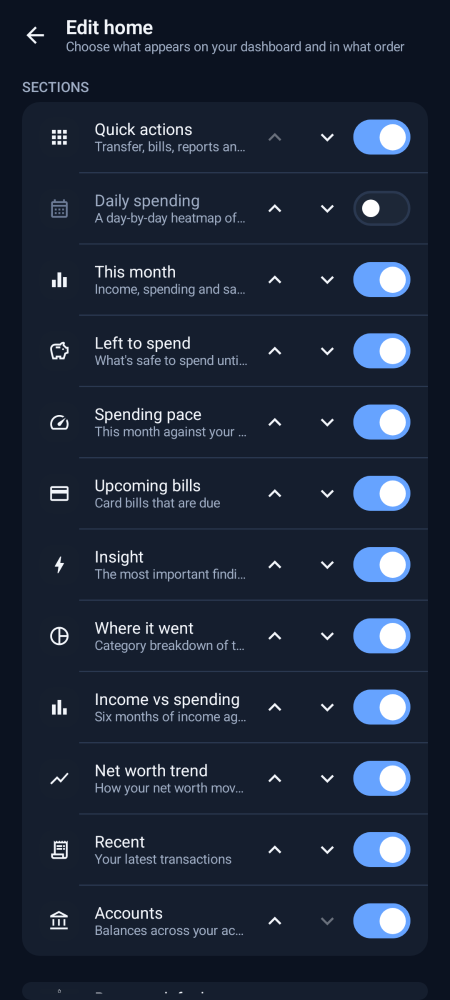
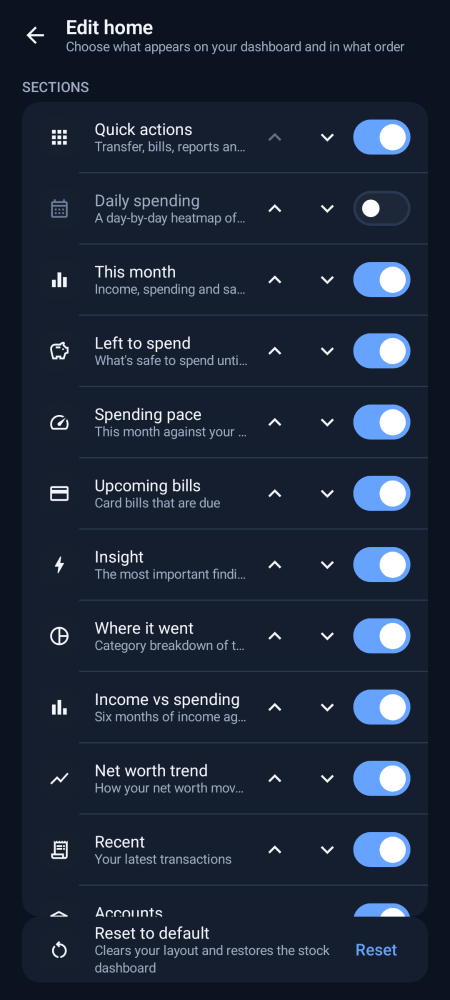
v1.7.8: Edit home fix — root cause: the editor rendered 12 section rows plus the Reset card in a non-scrolling Column inside the screen Scaffold, so on any real screen the tail of the list and the entire Reset control were clipped off-screen and unreachable (the v1.7.7 golden even shows the Reset ca

diff --git a/app/src/main/java/com/acuranza/app/ui/home/EditHomeScreen.kt b/app/src/main/java/com/acuranza/app/ui/home/EditHomeScreen.kt
@@ -1,16 +1,18 @@
 package com.acuranza.app.ui.home
 
 import androidx.compose.foundation.background
-import androidx.compose.foundation.layout.Arrangement
-import androidx.compose.foundation.layout.Box
 import androidx.compose.foundation.layout.Column
+import androidx.compose.foundation.layout.PaddingValues
 import androidx.compose.foundation.layout.Row
 import androidx.compose.foundation.layout.Spacer
+import androidx.compose.foundation.layout.fillMaxSize
 import androidx.compose.foundation.layout.fillMaxWidth
 import androidx.compose.foundation.layout.height
+import androidx.compose.foundation.layout.navigationBarsPadding
 import androidx.compose.foundation.layout.padding
 import androidx.compose.foundation.layout.size
 import androidx.compose.foundation.layout.width
+import androidx.compose.foundation.lazy.LazyColumn
 import androidx.compose.foundation.shape.RoundedCornerShape
 import androidx.compose.material.icons.Icons
 import androidx.compose.material.icons.outlined.KeyboardArrowDown
@@ -23,9 +25,12 @@ import androidx.compose.material3.Switch
 import androidx.compose.material3.SwitchDefaults
 import androidx.compose.material3.Text
 import androidx.compose.runtime.Composable
+import androidx.compose.runtime.LaunchedEffect
 import androidx.compose.runtime.getValue
+import androidx.compose.runtime.mutableStateOf
 import androidx.compose.runtime.remember
 import androidx.compose.runtime.rememberCoroutineScope
+import androidx.compose.runtime.setValue
 import androidx.compose.ui.Alignment
 import androidx.compose.ui.Modifier
 import androidx.compose.ui.draw.clip
@@ -39,34 +44,58 @@ import com.acuranza.app.designsystem.theme.AcuranzaTheme
 import com.acuranza.app.ui.common.AcuranzaScreen
 import com.acuranza.app.ui.common.LocalContainer
 import com.acuranza.app.ui.nav.popBackSafely
-import com.acuranza.app.ui.settings.SettingsDivider
 import kotlinx.coroutines.launch
 
 /**
  * Settings → Appearance → Edit home: picks which dashboard sections appear and in what order.
- * Every change is saved the moment it's made; "Reset to default" clears the saved layout.
+ *
+ * The editor's local state is the source of truth once seeded from the saved layout: every edit
+ * applies immediately and is written through to DataStore. Without this, a second tap before the
+ * write round-trips would encode from a stale remembered layout and silently undo the first
+ * change — and switches would snap back while the emission was in flight.
  */
 @Composable
 fun EditHomeScreen(nav: NavController) {
     val c = LocalContainer.current
     val scope = rememberCoroutineScope()
     val settings by c.settings.settings.collectAsStateWithLifecycle(initialValue = null)
-    val layout = remember(settings?.homeLayout) { HomeLayout.decode(settings?.homeLayout) }
+
+    // Seeded exactly once, when the persisted settings first arrive (settings == null only during
+    // the initial frame); after that the user's in-progress edits always win over flow emissions.
+    var layout by remember { mutableStateOf<List<Pair<HomeSection, Boolean>>?>(null) }
+    LaunchedEffect(settings) {
+        if (layout == null && settings != null) {
+            layout = HomeLayout.decode(settings!!.homeLayout)
+        }
+    }
+
+    fun commit(next: List<Pair<HomeSection, Boolean>>) {
+        layout = next
+        scope.launch { c.settings.setHomeLayout(HomeLayout.encode(next)) }
+    }
+
     EditHomeContent(
-        layout = layout,
-        saved = settings != null,
-        onChange = { raw -> scope.launch { c.settings.setHomeLayout(raw) } },
-        onReset = { scope.launch { c.settings.resetHomeLayout() } },
+        layout = layout ?: HomeLayout.decode(null),
+        saved = settings?.homeLayout != null,
+        onChange = { next -> commit(next) },
+        onReset = {
+            layout = HomeLayout.decode(null)
+            scope.launch { c.settings.resetHomeLayout() }
+        },
         onBack = { nav.popBackSafely() },
     )
 }
 
-/** Stateless editor body, so tests render it without the container; [layout] is section→visible. */
+/**
+ * Stateless editor body, so tests render it without the container. The section list scrolls
+ * (12 rows plus header can exceed a phone's height) and the Reset card is pinned below it,
+ * so the bottom rows and Reset stay reachable on every screen size.
+ */
 @Composable
 fun EditHomeContent(
     layout: List<Pair<HomeSection, Boolean>>,
     saved: Boolean = false,
-    onChange: (String) -> Unit = {},
+    onChange: (List<Pair<HomeSection, Boolean>>) -> Unit = {},
     onReset: () -> Unit = {},
     onBack: () -> Unit = {},
 ) {
@@ -75,40 +104,50 @@ fun EditHomeContent(
         subtitle = "Choose what appears on your dashboard and in what order",
         onBack = onBack,
     ) { padding ->
-        Column(Modifier.fillMaxWidth().padding(padding).padding(horizontal = 20.dp)) {
+        Column(Modifier.fillMaxSize().padding(padding)) {
             Text(
                 "SECTIONS",
                 style = MaterialTheme.typography.labelMedium,
                 color = AcuranzaTheme.colors.subtleText,
-                modifier = Modifier.padding(top = 8.dp, bottom = 6.dp),
+                modifier = Modifier.padding(start = 20.dp, end = 20.dp, top = 8.dp, bottom = 6.dp),
             )
-            Column(
+            LazyColumn(
                 Modifier
                     .fillMaxWidth()
+                    .weight(1f)
+                    .padding(horizontal = 20.dp)
                     .clip(RoundedCornerShape(16.dp))
                     .background(AcuranzaTheme.colors.cardSurface),
+                contentPadding = PaddingValues(bottom = 8.dp),
             ) {
-                layout.forEachIndexed { index, (section, visible) ->
-                    if (index > 0) SettingsDivider(startInset = 52.dp)
-                    EditHomeRow(
-                        section = section,
-                        visible = visible,
-                        isFirst = index == 0,
-                        isLast = index == layout.lastIndex,
-                        onToggle = { on ->
-                            onChange(HomeLayout.encode(HomeLayout.setVisibility(layout, section, on)))
-                        },
-                        onMove = { up ->
-                            onChange(HomeLayout.encode(HomeLayout.move(layout, index, up)))
-                        },
-                    )
+                items(layout.size, key = { layout[it].first.id }) { index ->
+                    val (section, visible) = layout[index]
+                    androidx.compose.foundation.layout.Box(Modifier.animateItem()) {
+                        Column {
+                            if (index > 0) com.acuranza.app.ui.settings.SettingsDivider(startInset = 52.dp)
+                            EditHomeRow(
+                                section = section,
+                                visible = visible,
+                                isFirst = index == 0,
+                                isLast = index == layout.lastIndex,
+                                onToggle = { on ->
+                                    onChange(HomeLayout.setVisibility(layout, section, on))
+                                },
+                                onMove = { up ->
+                                    onChange(HomeLayout.move(layout, index, up))
+                                },
+                            )
+                        }
+                    }
                 }
             }
 
-            Spacer(Modifier.height(24.dp))
+            // Pinned footer: reset is reachable on any screen height, no scrolling needed.
             Row(
                 Modifier
                     .fillMaxWidth()
+                    .navigationBarsPadding()
+                    .padding(start = 20.dp, end = 20.dp, bottom = 16.dp)
                     .clip(RoundedCornerShape(16.dp))
                     .background(AcuranzaTheme.colors.cardSurface)
                     .padding(horizontal = 16.dp, vertical = 6.dp),
@@ -130,7 +169,6 @@ fun EditHomeContent(
                 }
                 androidx.compose.material3.TextButton(enabled = saved, onClick = onReset) { Text("Reset") }
             }
-            Spacer(Modifier.height(24.dp))
         }
     }
 }
@@ -174,8 +212,8 @@ private fun EditHomeRow(
                 overflow = TextOverflow.Ellipsis,
             )
         }
-        // Move up / down; the whole pair is one 48dp-tall control block with 48dp square buttons.
-        Row(verticalAlignment = Alignment.CenterVertically, horizontalArrangement = Arrangement.spacedBy(0.dp)) {
+        // Move up / down; 48dp square buttons keep the pair an easy touch target.
+        Row(verticalAlignment = Alignment.CenterVertically) {
             IconButton(enabled = !isFirst, onClick = { onMove(true) }) {
                 Icon(Icons.Outlined.KeyboardArrowUp, contentDescription = "Move ${section.label} up")
             }
